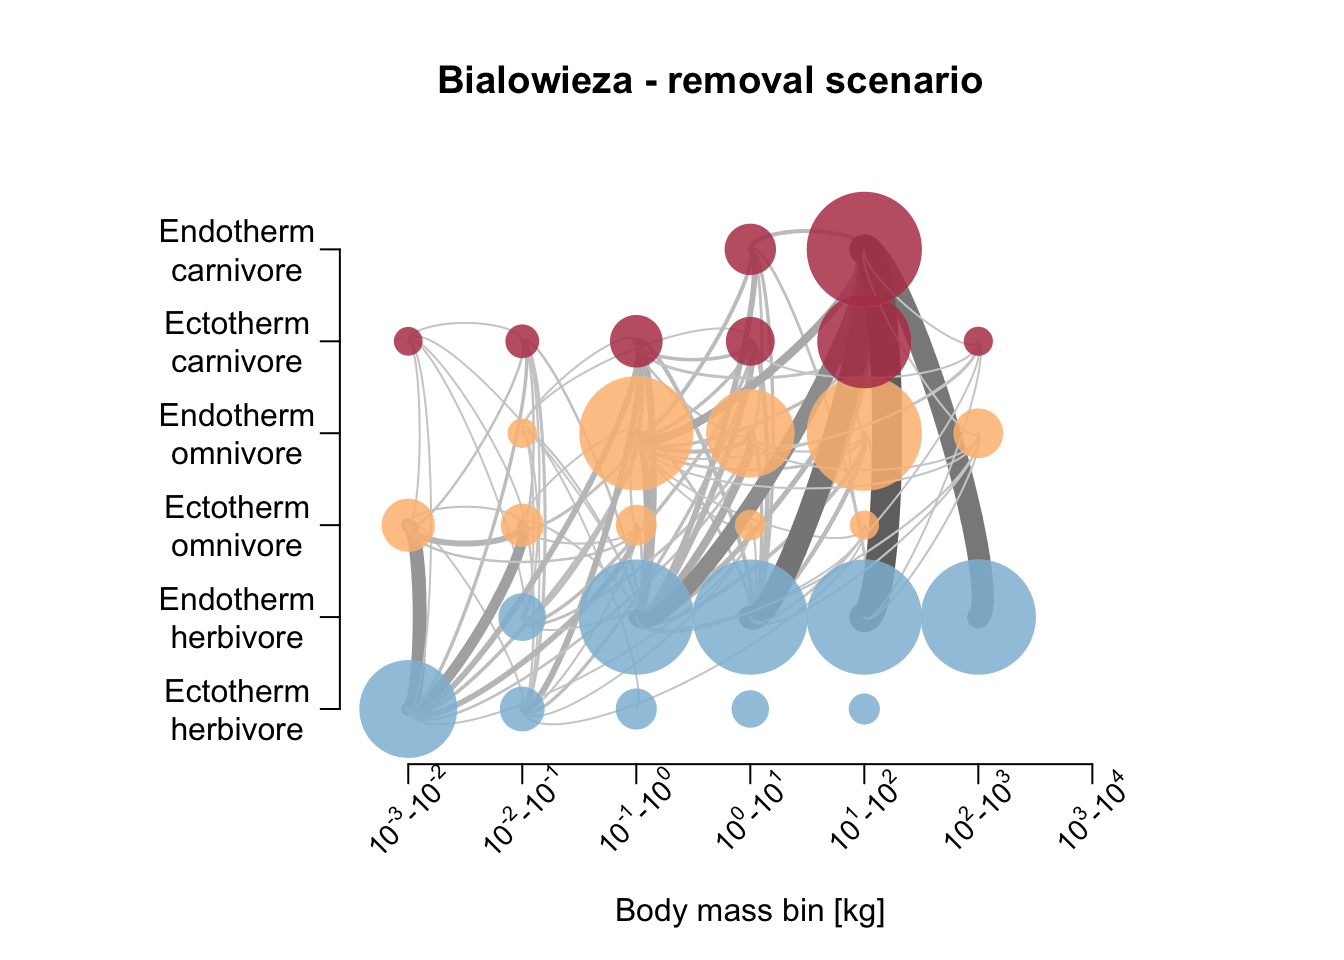
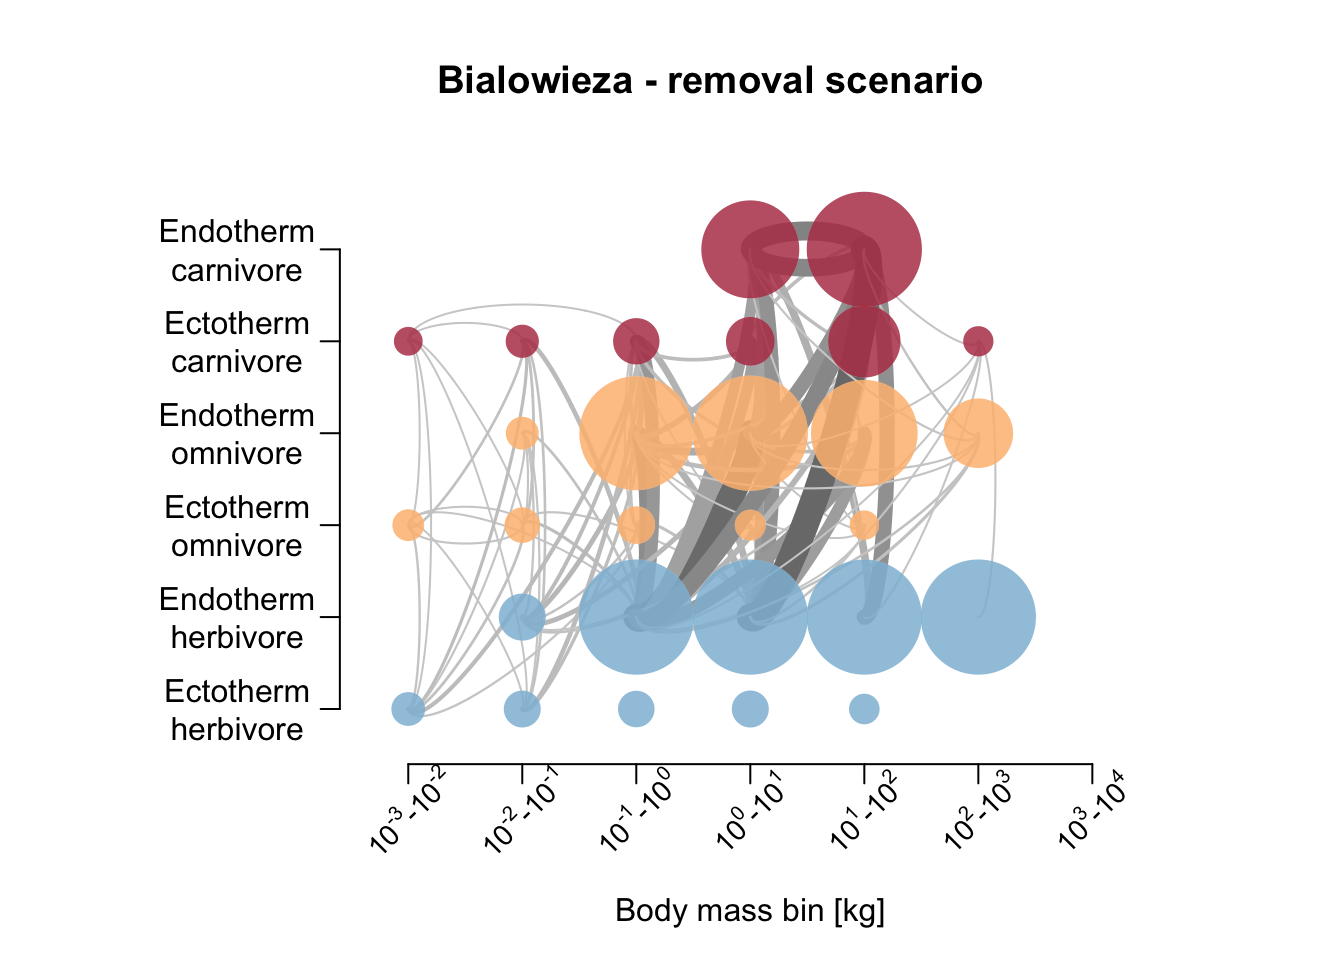
fix cohort body masses

Changed region(s): [[0.25, 0.1875, 0.75, 0.8125], [0.3125, 0.3438, 0.3438, 0.4375], [0.625, 0.625, 0.6562, 0.6562]]

diff --git a/12_Mad_carnivores.html b/12_Mad_carnivores.html
@@ -492,7 +492,7 @@ regulation weakens and the bottom-up (resource) regulation
 strengthens.</p>
 <p>To understand the effect of large carnivore removal on ecosystem
 structure and, thus, the importance of top-down control on the
-ecosystem, @<span class="citation">Hoeks et al. (2020)</span> ran a
+ecosystem, <span class="citation">Hoeks et al. (2020)</span> ran a
 simulation in which they remove all large (&gt;21 kg) endothermic
 carnivores and compared this to a control, no-removal simulation. Here,
 we will not simulate global biomass differences, but just run the model
@@ -556,15 +556,33 @@ simulation runs through in 3-4 min (i.e. 0.20-0.25 sec per monthly
 timestep). Should it take much longer on your computer, you can reduce
 computational burden e.g. by reducing the maximum number of cohorts that
 are being simulated (in the <code>madingley_run()</code> function).</p>
+<p>In the simulation, we define the maximum body masses of herbivores,
+carnivores and omnivores that are typically found at those locations
+(according to Table 2 of <span class="citation">Hoeks et al.
+(2020)</span>).</p>
 <p>In contrast to <span class="citation">Hoeks et al. (2020)</span>, we
 only run a single replicate per scenario.</p>
-<pre class="r"><code># Run spin-up of 50 years for Bialowieza and for Serengeti
+<pre class="r"><code># Define maximum body size of endotherms in the cohort definitions:
+c_defs_B =c_defs_S = madingley_inputs(&#39;cohort definition&#39;)
+
+c_defs_B$PROPERTY_Maximum.mass[1] = 500000 # Largest herbivore Bialowieza: Bison bonasus - bison (500 kg)
+c_defs_B$PROPERTY_Maximum.mass[2] = 32000 # Largest carnivore Bialowieza: Canis lupus -wolve (32 kg)
+c_defs_B$PROPERTY_Maximum.mass[3] = 181000 # Largest omnivore Bialowieza: Ursus arctos - brown bear (181 kg)
+
+c_defs_S$PROPERTY_Maximum.mass[1] = 3940000 # Largest herbivore Serengeti: Loxodonta africana - elefant (3940 kg)
+c_defs_S$PROPERTY_Maximum.mass[2] = 162000 # Largest carnivore Serengeti: Panthera leo - lion (162 kg)
+c_defs_S$PROPERTY_Maximum.mass[3] = 83000 # Largest omnivore Serengeti: Phacochoerus africanus - warthog (83 kg)
+
+
+# Run spin-up of 50 years for Bialowieza and for Serengeti
 mres_spinup_B = madingley_run(madingley_data = mdat_B, 
-                       years = 50,
+                     years = 50,
+                     cohort_def = c_defs_B,
                      out_dir=dirpath)
 
 mres_spinup_S = madingley_run(madingley_data = mdat_S, 
-                       years = 50,
+                     years = 50,
+                     cohort_def = c_defs_S,
                      out_dir=dirpath)</code></pre>
 <p>Save all model objects for later usage (such that you do not need to
 rerun the models for plotting).</p>
@@ -579,10 +597,12 @@ location.</em></p>
 # Note that simulations start from spinup results: 
 mres_control_B = madingley_run(madingley_data = mres_spinup_B, 
                        years = 50,
+                       cohort_def = c_defs_B,
                        out_dir=dirpath)
 
 mres_control_S = madingley_run(madingley_data = mres_spinup_S, 
                        years = 50,
+                       cohort_def = c_defs_B,
                        out_dir=dirpath)</code></pre>
 <pre class="r"><code># save model objects
 save(mres_spinup_B, mres_spinup_S, mres_control_B, mres_control_S, file=paste0(dirpath,&#39;/mres_carnivores.RData&#39;))</code></pre>
@@ -654,41 +674,44 @@ once.</p>
 <pre class="r"><code># Inspect adult body mass of endothermic carnivores in Bialowieza
 summary(subset(mres_spinup_B$cohorts, FunctionalGroupIndex==1)$AdultMass)</code></pre>
 <pre><code>##    Min. 1st Qu.  Median    Mean 3rd Qu.    Max. 
-##    5000   11412   17847   19698   25016   60322</code></pre>
+##    4419    9538   13634   14587   18444   32001</code></pre>
 <pre class="r"><code># Inspect adult body mass of endothermic carnivores in Serengeti
 summary(subset(mres_spinup_S$cohorts, FunctionalGroupIndex==1)$AdultMass)</code></pre>
 <pre><code>##    Min. 1st Qu.  Median    Mean 3rd Qu.    Max. 
-##    4421   12513   21059   29663   36223  193694</code></pre>
+##    2327   11730   22907   38283   52502  162001</code></pre>
 <pre class="r"><code># Define new output
 mres_removal_B = mres_spinup_B
 mres_removal_S = mres_spinup_S
 
-# Remove large carnivores in Bialowieza
+# Remove large carnivores &gt;21 kg in Bialowieza
 remove_idx_B = which(mres_removal_B$cohorts$AdultMass &gt; 21000 &amp; 
                      mres_removal_B$cohorts$FunctionalGroupIndex == 1)
 mres_removal_B$cohorts = mres_removal_B$cohorts[-remove_idx_B, ]
   
-# Remove large carnivores in Serengeti
+# Remove large carnivores &gt;21 kg in Serengeti
 remove_idx_S = which(mres_removal_S$cohorts$AdultMass &gt; 21000 &amp; 
                      mres_removal_S$cohorts$FunctionalGroupIndex == 1)
 mres_removal_S$cohorts = mres_removal_S$cohorts[-remove_idx_S, ]
   
-# Define maximum body size of endotherm carnivores in spatial input layers:
-sptl_inp = madingley_inputs(&#39;spatial inputs&#39;)
-sptl_inp$Endo_C_max[ ] = 21000
+# Restrict maximum body size of endotherm carnivores in the cohort definitions to &lt;21kg:
+c_defs_B_removal = c_defs_B
+c_defs_B_removal$PROPERTY_Maximum.mass[2] = 21000
+c_defs_S_removal = c_defs_S
+c_defs_S_removal$PROPERTY_Maximum.mass[2] = 21000
+
 
 # Run simulation:
 # Bialowieza
-mres_removal_B = madingley_run(madingley_data = mres_removal_B, 
-                       spatial_inputs = sptl_inp,
-                       years = 50,
-                       out_dir=dirpath)
-  
+mres_removal_B = madingley_run(madingley_data = mres_removal_B,
+                      cohort_def = c_defs_B_removal,
+                      years = 50,
+                      out_dir=dirpath)
+
 # Serengeti
-mres_removal_S = madingley_run(madingley_data = mres_removal_S, 
-                       spatial_inputs = sptl_inp,         
-                       years = 50,
-                       out_dir=dirpath)</code></pre>
+mres_removal_S = madingley_run(madingley_data = mres_removal_S,
+                      cohort_def = c_defs_S_removal,
+                      years = 50,
+                      out_dir=dirpath)</code></pre>
 <pre class="r"><code># save model objects
 save(mres_spinup_B, mres_spinup_S, mres_control_B, mres_control_S, mres_removal_B, mres_removal_S, file=paste0(dirpath,&#39;/mres_carnivores.RData&#39;))</code></pre>
 </div>
@@ -734,41 +757,47 @@ plot(dens_change_aut_B,type=&#39;l&#39;, col=&quot;cyan4&quot;,lwd=2, xlab=&#39;
 abline(1,0, lty=&#39;dotted&#39;, col=&#39;grey&#39;)
 lines(dens_change_aut_S,col=&#39;khaki&#39;,lwd=2)</code></pre>
 <p><img src="12_Mad_carnivores_files/figure-html/unnamed-chunk-11-1.png" width="672" /></p>
-<p>Let’s also compare the resulting food webs.</p>
+<p>Let’s also compare the resulting food webs. <span
+class="citation">Hoeks et al. (2020)</span> found that large herbivores
+increased in biomass after large carnivore removal, especially in the
+Serengeti; the biomass of medium-sized endothermic carnivores (10-21kg)
+was increased; the biomass of large (&gt;100 kg) endothermic omnivores
+decreased. Compare to our simulation results below.</p>
 <pre class="r"><code># Plot foodweb plot
+par(mfrow=c(1,1))
 plot_foodweb(mres_control_B, max_flows = 5)</code></pre>
-<pre><code>## loading inputs from: /Users/zurell/data/Lehre/UP_Lehre/CLEWS/EcosystemDynamics/edb-course/models/Mad_carnivores/madingley_outs_27_05_22_17_56_54/</code></pre>
+<pre><code>## loading inputs from: /Users/zurell/data/Lehre/UP_Lehre/CLEWS/EcosystemDynamics/edb-course/models/Mad_carnivores/madingley_outs_31_05_22_20_01_50/</code></pre>
 <pre class="r"><code>title(&#39;Bialowieza - control scenario&#39;)</code></pre>
 <p><img src="12_Mad_carnivores_files/figure-html/unnamed-chunk-12-1.png" width="672" /></p>
 <pre class="r"><code>plot_foodweb(mres_removal_B, max_flows = 5)</code></pre>
-<pre><code>## loading inputs from: /Users/zurell/data/Lehre/UP_Lehre/CLEWS/EcosystemDynamics/edb-course/models/Mad_carnivores/madingley_outs_27_05_22_18_04_04/</code></pre>
+<pre><code>## loading inputs from: /Users/zurell/data/Lehre/UP_Lehre/CLEWS/EcosystemDynamics/edb-course/models/Mad_carnivores/madingley_outs_31_05_22_20_10_35/</code></pre>
 <pre class="r"><code>title(&#39;Bialowieza - removal scenario&#39;)</code></pre>
 <p><img src="12_Mad_carnivores_files/figure-html/unnamed-chunk-12-2.png" width="672" /></p>
 <pre class="r"><code>plot_foodweb(mres_control_S, max_flows = 5)</code></pre>
-<pre><code>## loading inputs from: /Users/zurell/data/Lehre/UP_Lehre/CLEWS/EcosystemDynamics/edb-course/models/Mad_carnivores/madingley_outs_27_05_22_18_00_27/</code></pre>
+<pre><code>## loading inputs from: /Users/zurell/data/Lehre/UP_Lehre/CLEWS/EcosystemDynamics/edb-course/models/Mad_carnivores/madingley_outs_31_05_22_20_04_58/</code></pre>
 <pre class="r"><code>title(&#39;Serengeti - control scenario&#39;)</code></pre>
 <p><img src="12_Mad_carnivores_files/figure-html/unnamed-chunk-12-3.png" width="672" /></p>
 <pre class="r"><code>plot_foodweb(mres_removal_S, max_flows = 5)</code></pre>
-<pre><code>## loading inputs from: /Users/zurell/data/Lehre/UP_Lehre/CLEWS/EcosystemDynamics/edb-course/models/Mad_carnivores/madingley_outs_27_05_22_18_07_02/</code></pre>
+<pre><code>## loading inputs from: /Users/zurell/data/Lehre/UP_Lehre/CLEWS/EcosystemDynamics/edb-course/models/Mad_carnivores/madingley_outs_31_05_22_20_13_49/</code></pre>
 <pre class="r"><code>title(&#39;Serengeti - removal scenario&#39;)</code></pre>
 <p><img src="12_Mad_carnivores_files/figure-html/unnamed-chunk-12-4.png" width="672" /></p>
-<pre class="r"><code># Plot trophic pyramid
-plot_trophicpyramid(mres_control_B)</code></pre>
-<pre><code>## loading inputs from: /Users/zurell/data/Lehre/UP_Lehre/CLEWS/EcosystemDynamics/edb-course/models/Mad_carnivores/madingley_outs_27_05_22_17_56_54/</code></pre>
-<pre class="r"><code>title(&#39;Bialowieza - control scenario&#39;)</code></pre>
+<pre class="r"><code># Plot body mass densities
+par(mfcol=c(3,2))
+hist(subset(mres_control_B$cohorts, FunctionalGroupIndex==0)$AdultMass/1000, main=&#39;Bialowieza control - herbivores&#39;, xlab=&#39;Body mass kg&#39;)
+hist(subset(mres_control_B$cohorts, FunctionalGroupIndex==1)$AdultMass/1000, main=&#39;Bialowieza control - carnivores&#39;, xlab=&#39;Body mass kg&#39;)
+hist(subset(mres_control_B$cohorts, FunctionalGroupIndex==2)$AdultMass/1000, main=&#39;Bialowieza control - omnivores&#39;, xlab=&#39;Body mass kg&#39;)
+hist(subset(mres_removal_B$cohorts, FunctionalGroupIndex==0)$AdultMass/1000, main=&#39;Bialowieza removal - herbivores&#39;, xlab=&#39;Body mass kg&#39;)
+hist(subset(mres_removal_B$cohorts, FunctionalGroupIndex==1)$AdultMass/1000, main=&#39;Bialowieza removal - carnivores&#39;, xlab=&#39;Body mass kg&#39;)
+hist(subset(mres_removal_B$cohorts, FunctionalGroupIndex==2)$AdultMass/1000, main=&#39;Bialowieza removal - omnivores&#39;, xlab=&#39;Body mass kg&#39;)</code></pre>
 <p><img src="12_Mad_carnivores_files/figure-html/unnamed-chunk-12-5.png" width="672" /></p>
-<pre class="r"><code>plot_trophicpyramid(mres_removal_B)</code></pre>
-<pre><code>## loading inputs from: /Users/zurell/data/Lehre/UP_Lehre/CLEWS/EcosystemDynamics/edb-course/models/Mad_carnivores/madingley_outs_27_05_22_18_04_04/</code></pre>
-<pre class="r"><code>title(&#39;Bialowieza - removal scenario&#39;)</code></pre>
+<pre class="r"><code>par(mfcol=c(3,2))
+hist(subset(mres_control_S$cohorts, FunctionalGroupIndex==0)$AdultMass/1000, main=&#39;Serengeti control - herbivores&#39;, xlab=&#39;Body mass kg&#39;)
+hist(subset(mres_control_S$cohorts, FunctionalGroupIndex==1)$AdultMass/1000, main=&#39;Serengeti control - carnivores&#39;, xlab=&#39;Body mass kg&#39;)
+hist(subset(mres_control_S$cohorts, FunctionalGroupIndex==2)$AdultMass/1000, main=&#39;Serengeti control - omnivores&#39;, xlab=&#39;Body mass kg&#39;)
+hist(subset(mres_removal_S$cohorts, FunctionalGroupIndex==0)$AdultMass/1000, main=&#39;Serengeti removal - herbivores&#39;, xlab=&#39;Body mass kg&#39;)
+hist(subset(mres_removal_S$cohorts, FunctionalGroupIndex==1)$AdultMass/1000, main=&#39;Serengeti removal - carnivores&#39;, xlab=&#39;Body mass kg&#39;)
+hist(subset(mres_removal_S$cohorts, FunctionalGroupIndex==2)$AdultMass/1000, main=&#39;Serengeti removal - omnivores&#39;, xlab=&#39;Body mass kg&#39;)</code></pre>
 <p><img src="12_Mad_carnivores_files/figure-html/unnamed-chunk-12-6.png" width="672" /></p>
-<pre class="r"><code>plot_trophicpyramid(mres_control_S)</code></pre>
-<pre><code>## loading inputs from: /Users/zurell/data/Lehre/UP_Lehre/CLEWS/EcosystemDynamics/edb-course/models/Mad_carnivores/madingley_outs_27_05_22_18_00_27/</code></pre>
-<pre class="r"><code>title(&#39;Serengeti - control scenario&#39;)</code></pre>
-<p><img src="12_Mad_carnivores_files/figure-html/unnamed-chunk-12-7.png" width="672" /></p>
-<pre class="r"><code>plot_trophicpyramid(mres_removal_S)</code></pre>
-<pre><code>## loading inputs from: /Users/zurell/data/Lehre/UP_Lehre/CLEWS/EcosystemDynamics/edb-course/models/Mad_carnivores/madingley_outs_27_05_22_18_07_02/</code></pre>
-<pre class="r"><code>title(&#39;Serengeti - removal scenario&#39;)</code></pre>
-<p><img src="12_Mad_carnivores_files/figure-html/unnamed-chunk-12-8.png" width="672" /></p>
 <div class="alert alert-info">
 <p><strong>Task: extend analyses</strong></p>
 <p>Now, it’s your turn. Test other locations from <span
